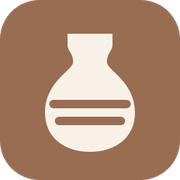
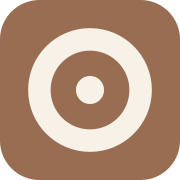
Логотип сайта и новый номер телефона

diff --git a/wwwroot/css/site.css b/wwwroot/css/site.css
@@ -90,6 +90,8 @@ a { color: var(--accent); }
 .header__inner { display: flex; align-items: center; gap: 28px; min-height: 76px; }
 .logo { font-size: 20px; font-weight: 700; color: var(--dark); text-decoration: none; white-space: nowrap; }
 .logo--light { color: var(--white); margin-bottom: 12px; }
+.logo img { display: block; width: 230px; height: auto; }
+@media (max-width: 480px) { .logo img { width: 190px; } }
 .nav { display: flex; gap: 22px; flex: 1; }
 .nav a { color: var(--text); font-size: 15px; text-decoration: none; }
 .nav a:hover, .nav a.active { color: var(--accent); font-weight: 600; }
